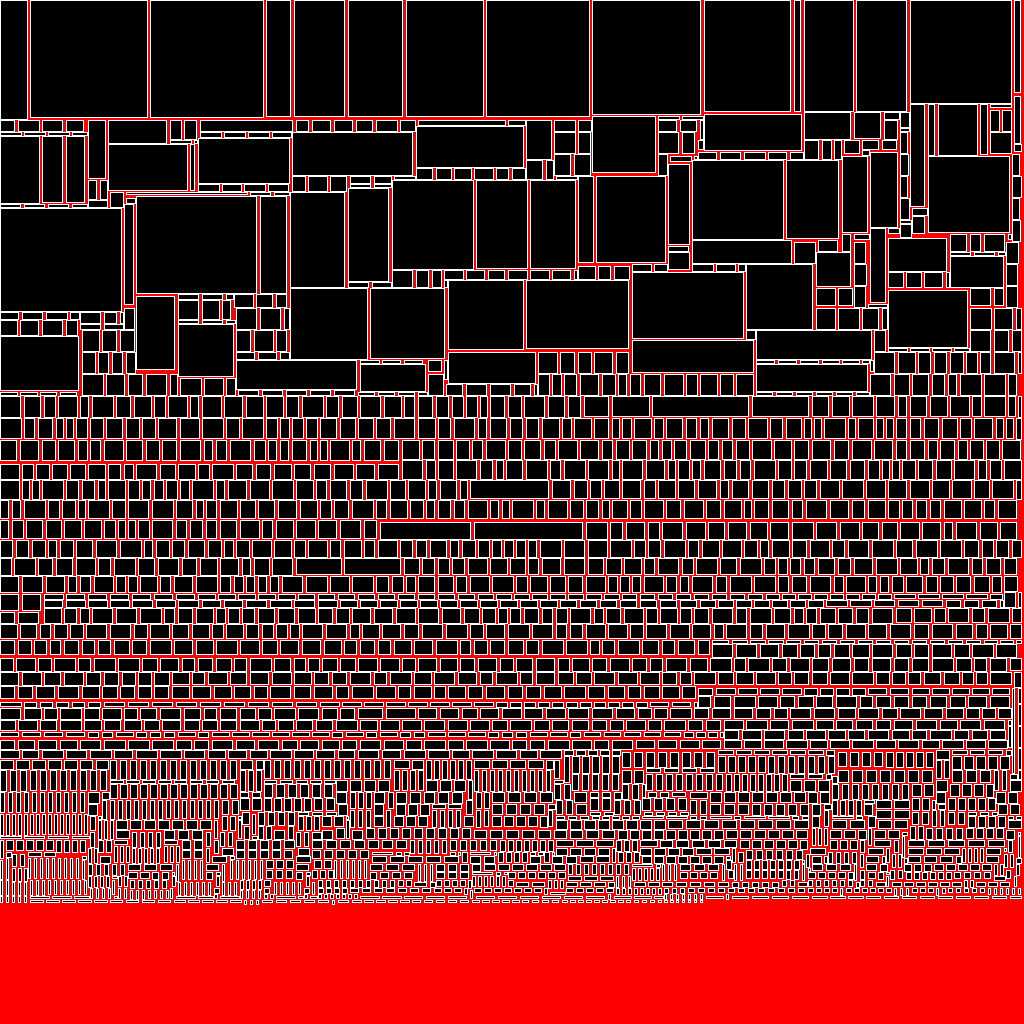
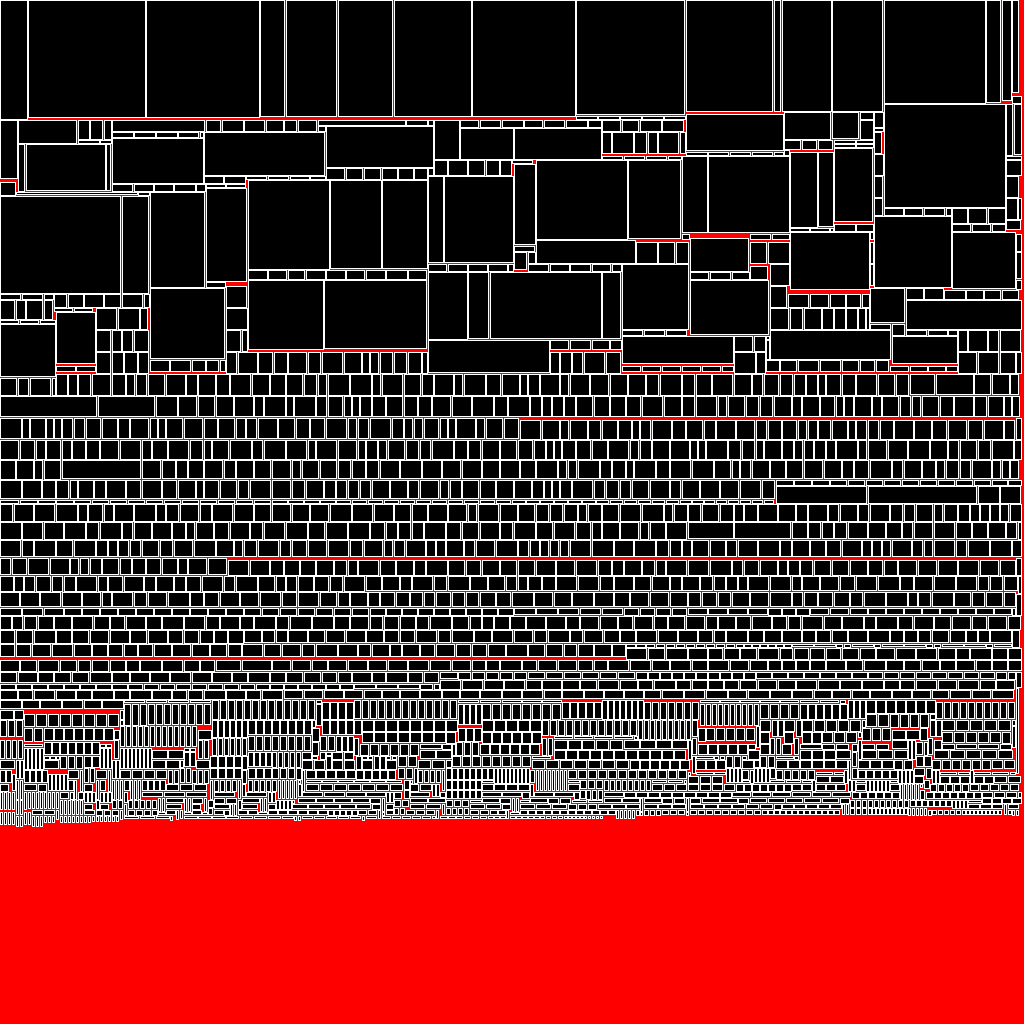
Fix

diff --git a/src/mihailris/lmpacker/LMPacker.java b/src/mihailris/lmpacker/LMPacker.java
@@ -116,7 +116,7 @@ public class LMPacker {
                     }
                     prect = findCollision(x, y, rw, rh);
                     if (prect != null) {
-                        x = (prect.x >> mpbit) + (prect.width >> mpbit);
+                        x = (prect.x >> mpbit) + (prect.width >> mpbit) - 1;
                         continue;
                     }
                     fill(rect, x, y, rw, rh);
@@ -125,7 +125,7 @@ public class LMPacker {
                     placed.add(rect);
                     return true;
                 } else {
-                    x = (prect.x >> mpbit) + (prect.width >> mpbit);
+                    x = (prect.x >> mpbit) + (prect.width >> mpbit) - 1;
                 }
             }
             if (skiplines) {
